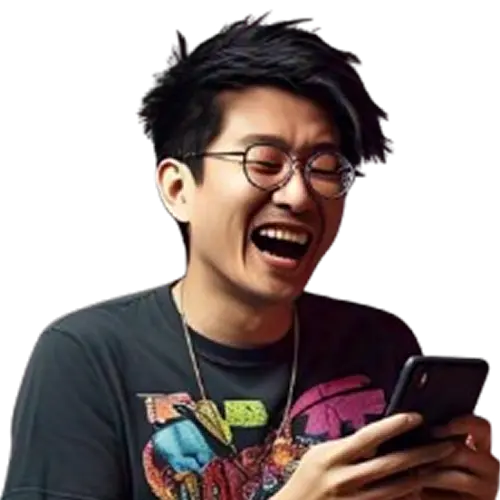
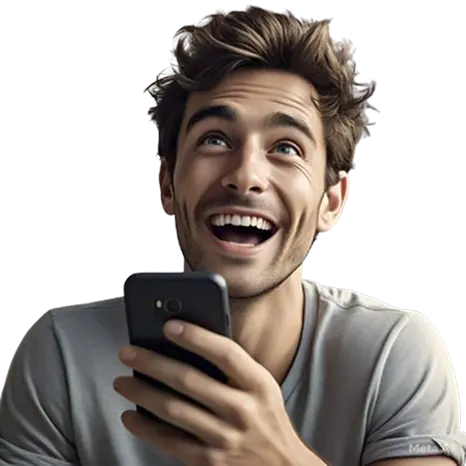
[UPDATE]: Allowed Origins updated

diff --git a/backend/app.js b/backend/app.js
@@ -15,7 +15,7 @@ app.enable('trust proxy');
 
 // const CLIENT_URL = process.env.CLIENT_URL;
 // const ADMIN_URL = process.env.ADMIN_URL;
-const allowedOrigins = ["http://localhost:5173"];
+const allowedOrigins = ["http://localhost:5173", "https://vibesphere-mbti.vercel.app"];
 const corsOptions = {
     origin: (origin, callback) => {
         if (!origin || allowedOrigins.includes(origin)) {

diff --git a/client/src/components/Hero/Hero.css b/client/src/components/Hero/Hero.css
@@ -65,7 +65,7 @@
     width: 30vw;
     min-width: 18rem;
     min-height: 18rem;
-    background-image: url("/assets/Variant-1.webp");
+    background-image: url("/assets/Variant-3.png");
     background-position: center;
     background-size: contain;
     background-repeat: no-repeat;
